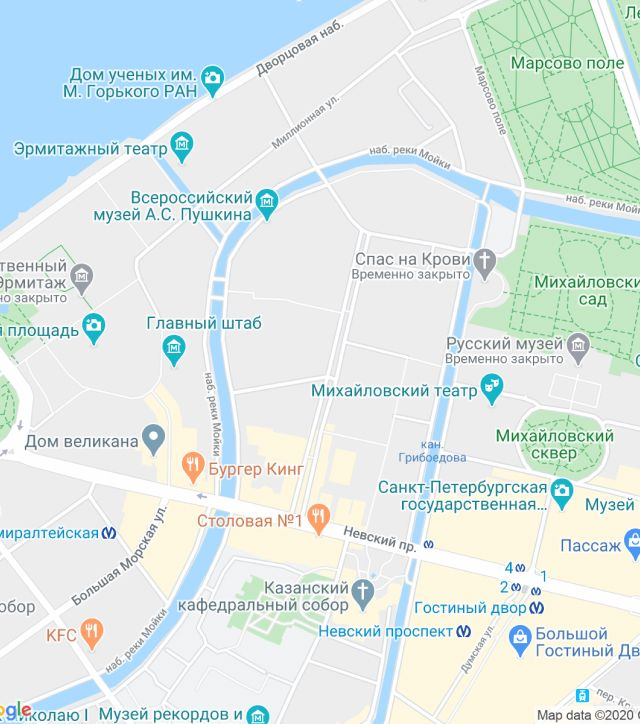
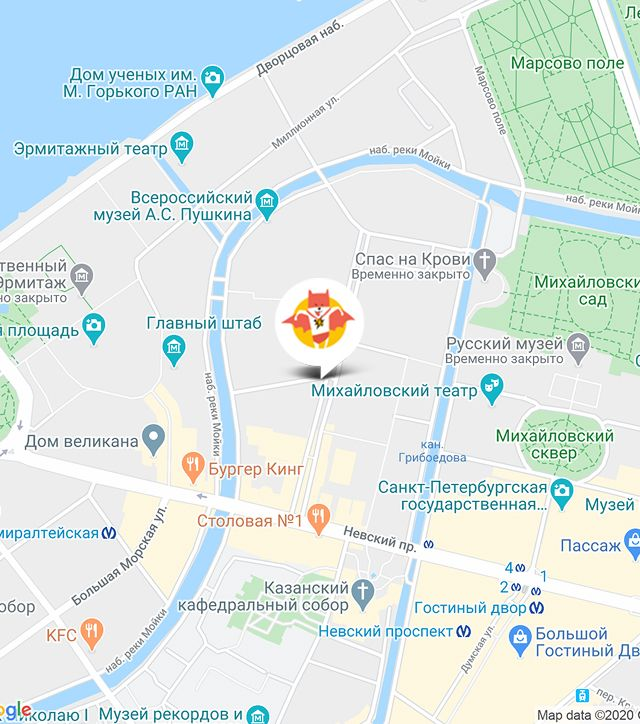
поправляет слайдер и карту в подвале

diff --git a/source/catalog.html b/source/catalog.html
@@ -75,7 +75,7 @@
                   <source media="(min-width: 768px)" srcset="images/catalog-products/chicken-500@tablet@1x.webp 1x, images/catalog-products/chicken-500@tablet@2x.webp 2x" type="image/webp" width="161" height="172">
 
                   <source srcset="images/catalog-products/chicken-500@1x.webp 1x, images/catalog-products/chicken-500@2x.webp 2x" type="image/webp">
-                  <img class="catalog-card__image" src="images/catalog-products/chicken-500@1x.png" srcset="images/catalog-products/chicken-500@1x.png 1x, images/catalog-products/chicken-500@2x.png 2x" alt="Cat Energy PRO 500 грамм со вкусом курицы" width="68" height="86">
+                  <img class="catalog-card__image" src="images/catalog-products/chicken-500@1x.png" srcset="images/catalog-products/chicken-500@1x.png 1x, images/catalog-products/chicken-500@2x.png 2x" alt="Cat Energy PRO 500 грамм со вкусом курицы" width="68" height="86" loading="lazy">
                 </picture>
               </a>
               <a class="catalog-card__link" href="#">
@@ -110,7 +110,7 @@
                   <source media="(min-width: 768px)" srcset="images/catalog-products/chicken-1000@tablet@1x.png 1x, images/catalog-products/chicken-1000@tablet@2x.png 2x" type="image/png" width="168" height="206">
 
                   <source srcset="images/catalog-products/chicken-1000@1x.webp 1x, images/catalog-products/chicken-1000@2x.webp 2x" type="image/webp">
-                  <img class="catalog-card__image" src="images/catalog-products/chicken-1000@1x.png" srcset="images/catalog-products/chicken-1000@1x.png 1x, images/catalog-products/chicken-1000@2x.png 2x" alt="Cat Energy PRO 1000 грамм со вкусом курицы" width="84" height="100">
+                  <img class="catalog-card__image" src="images/catalog-products/chicken-1000@1x.png" srcset="images/catalog-products/chicken-1000@1x.png 1x, images/catalog-products/chicken-1000@2x.png 2x" alt="Cat Energy PRO 1000 грамм со вкусом курицы" width="84" height="100" loading="lazy">
                 </picture>
               </a>
               <a class="catalog-card__link" href="#">
@@ -147,7 +147,7 @@
                   <source media="(min-width: 768px)" srcset="images/catalog-products/fish-500@tablet@1x.png 1x, images/catalog-products/fish-500@tablet@2x.png 2x" type="image/png" width="161" height="172">
 
                   <source srcset="images/catalog-products/fish-500@1x.webp 1x, images/catalog-products/fish-500@2x.webp 2x" type="image/webp">
-                  <img class="catalog-card__image" src="images/catalog-products/fish-500@1x.png" srcset="images/catalog-products/fish-500@1x.png 1x, images/catalog-products/fish-500@2x.png 2x" alt="Cat Energy PRO 500 грамм со вкусом рыбы" width="68" height="86">
+                  <img class="catalog-card__image" src="images/catalog-products/fish-500@1x.png" srcset="images/catalog-products/fish-500@1x.png 1x, images/catalog-products/fish-500@2x.png 2x" alt="Cat Energy PRO 500 грамм со вкусом рыбы" width="68" height="86" loading="lazy">
                 </picture>
               </a>
               <a class="catalog-card__link" href="#">
@@ -182,7 +182,7 @@
                   <source media="(min-width: 768px)" srcset="images/catalog-products/fish-1000@tablet@1x.png 1x, images/catalog-products/fish-1000@tablet@2x.png 2x" type="image/png" width="168" height="206">
 
                   <source srcset="images/catalog-products/fish-1000@1x.webp 1x, images/catalog-products/fish-1000@2x.webp 2x" type="image/webp">
-                  <img class="catalog-card__image" src="images/catalog-products/fish-1000@1x.png" srcset="images/catalog-products/fish-1000@1x.png 1x, images/catalog-products/fish-1000@2x.png 2x" alt="Cat Energy PRO 1000 грамм со вкусом рыбы" width="84" height="100">
+                  <img class="catalog-card__image" src="images/catalog-products/fish-1000@1x.png" srcset="images/catalog-products/fish-1000@1x.png 1x, images/catalog-products/fish-1000@2x.png 2x" alt="Cat Energy PRO 1000 грамм со вкусом рыбы" width="84" height="100" loading="lazy">
                 </picture>
               </a>
               <a class="catalog-card__link" href="#">
@@ -219,7 +219,7 @@
                   <source media="(min-width: 768px)" srcset="images/catalog-products/buckwheat-500@tablet@1x.png 1x, images/catalog-products/buckwheat-500@tablet@2x.png 2x" type="image/png" width="161" height="172">
 
                   <source srcset="images/catalog-products/buckwheat-500@1x.webp 1x, images/catalog-products/buckwheat-500@2x.webp 2x" type="image/webp">
-                  <img class="catalog-card__image" src="images/catalog-products/buckwheat-500@1x.png" srcset="images/catalog-products/buckwheat-500@1x.png 1x, images/catalog-products/buckwheat-500@2x.png 2x" alt="Cat Energy PRO 500 грамм со вкусом гречки" width="68" height="86">
+                  <img class="catalog-card__image" src="images/catalog-products/buckwheat-500@1x.png" srcset="images/catalog-products/buckwheat-500@1x.png 1x, images/catalog-products/buckwheat-500@2x.png 2x" alt="Cat Energy PRO 500 грамм со вкусом гречки" width="68" height="86" loading="lazy">
                 </picture>
               </a>
               <a class="catalog-card__link" href="#">
@@ -254,7 +254,7 @@
                   <source media="(min-width: 768px)" srcset="images/catalog-products/buckwheat-1000@tablet@1x.png 1x, images/catalog-products/buckwheat-1000@tablet@2x.png 2x" type="image/png" width="168" height="206">
 
                   <source srcset="images/catalog-products/buckwheat-1000@1x.webp 1x, images/catalog-products/buckwheat-1000@2x.webp 2x" type="image/webp">
-                  <img class="catalog-card__image" src="images/catalog-products/buckwheat-1000@1x.png" srcset="images/catalog-products/buckwheat-1000@1x.png 1x, images/catalog-products/buckwheat-1000@2x.png 2x" alt="Cat Energy PRO 1000 грамм со вкусом гречки" width="84" height="100">
+                  <img class="catalog-card__image" src="images/catalog-products/buckwheat-1000@1x.png" srcset="images/catalog-products/buckwheat-1000@1x.png 1x, images/catalog-products/buckwheat-1000@2x.png 2x" alt="Cat Energy PRO 1000 грамм со вкусом гречки" width="84" height="100" loading="lazy">
                 </picture>
               </a>
               <a class="catalog-card__link" href="#">
@@ -291,7 +291,7 @@
                   <source media="(min-width: 768px)" srcset="images/catalog-products/rice-500@tablet@1x.png 1x, images/catalog-products/rice-500@tablet@2x.png 2x" type="image/png" width="161" height="172">
 
                   <source srcset="images/catalog-products/rice-500@1x.webp 1x, images/catalog-products/rice-500@2x.webp 2x" type="image/webp">
-                  <img class="catalog-card__link" src="images/catalog-products/rice-500@1x.png" srcset="images/catalog-products/rice-500@1x.png 1x, images/catalog-products/rice-500@2x.png 2x" alt="Cat Energy PRO 500 грамм со вкусом риса" width="68" height="86">
+                  <img class="catalog-card__link" src="images/catalog-products/rice-500@1x.png" srcset="images/catalog-products/rice-500@1x.png 1x, images/catalog-products/rice-500@2x.png 2x" alt="Cat Energy PRO 500 грамм со вкусом риса" width="68" height="86" loading="lazy">
                 </picture>
               </a>
               <a class="catalog-card__link" href="#">
@@ -423,18 +423,27 @@
             </address>
           </div>
         </div>
-        <!--  -->
+
         <div class="dealers__map-wrap">
           <div class="dealers__map no-js" id="map"></div>
+          <picture class="dealers__map">
+            <source media="(min-width: 1220px)" srcset="./images/map/footer-map@desktop@1x.webp 1x, ./images/map/footer-map@desktop@2x.webp 2x" type="image/webp" width="161" height="172">
+            <source media="(min-width: 1220px)" srcset="./images/map/footer-map@desktop@1x.jpg 1x, ./images/map/footer-map@desktop@2x.jpg 2x" type="image/jpg" width="161" height="172">
+
+            <source media="(min-width: 768px)" srcset="./images/map/footer-map@tablet@1x.webp 1x, ./images/map/footer-map@tablet@2x.webp 2x" type="image/webp" width="768" height="400">
+            <source media="(min-width: 768px)" srcset="./images/map/footer-map@tablet@1x.jpg 1x, ./images/map/footer-map@tablet@2x.jpg 2x" type="image/jpg" width="768" height="400">
+
+            <source srcset="./images/map/footer-map@1x.webp 1x, ./images/map/footer-map@2x.webp 2x" type="image/webp">
+            <img src="./images/map/footer-map@1x.jpg" srcset="./images/map/footer-map@1x.jpg 1x, ./images/map/footer-map@2x.jpg 2x" alt="ул. Большая Конюшенная, д. 19/8, Санкт-Петербург" width="320" height="362" loading="lazy">
+          </picture>
         </div>
-        <!--  -->
       </section>
       <!-- dealers -->
 
       <div class="footer__container container">
         <div class="footer__block">
-          <a class="footer__logo-center logo-center" href="index.html">
-            <img class="logo-center__images" src="./images/logo-text.svg" alt="Кет енерджи" width="128" height="24">
+          <a class="footer__logo-center logo-center" href="index.html" aria-current="page">
+            <img class="logo-center__images" src="./images/logo-text.svg" alt="Кет енерджи" width="128" height="24" loading="lazy">
           </a>
         </div>
 
@@ -456,13 +465,9 @@
           </li>
         </ul>
 
-        <p class="footer__block footer__partners partners">
+        <a class="footer__block footer__partners partners" href="https://htmlacademy.ru/intensive/adaptive">
           HTML Academy
-          <a class="partners__logo-center logo-center" href="https://htmlacademy.ru/intensive/adaptive">
-            <img class="logo-center__images" src="./images/logo-htmlacademy.svg" alt="htmlacademy" width="27"
-              height="34">
-          </a>
-        </p>
+        </a>
       </div>
     </footer>
     <!-- footer -->

diff --git a/source/index.html b/source/index.html
@@ -5,7 +5,7 @@
     <title>Красивый тайтл</title>
     <meta name="viewport" content="width=device-width,initial-scale=1">
     <link rel="stylesheet" href="styles/styles.css">
-    <!-- <script src="scripts/index.js" defer></script> -->
+    <script src="scripts/index.js" defer></script>
   </head>
   <body>
 
@@ -158,14 +158,14 @@
               <source media="(min-width: 768px)" srcset="images/example-slider/before@tablet@1x.png 1x, images/example-slider/before@tablet@2x.png 2x" type="image/png" width="560" height="512">
 
               <source srcset="images/example-slider/before@1x.webp 1x, images/example-slider/before@2x.webp 2x" type="image/webp">
-              <img class="before-after__images before-after__images--before" src="images/example-slider/before@1x.png" srcset="images/example-slider/before@1x.png 1x, images/example-slider/before@2x.png 2x" alt="Кот с серо-белой шерстью. У него глаза разного цвета и очень крупное тело" width="280" height="256">
+              <img class="before-after__images before-after__images--before" src="images/example-slider/before@1x.png" srcset="images/example-slider/before@1x.png 1x, images/example-slider/before@2x.png 2x" alt="Кот с серо-белой шерстью. У него глаза разного цвета и очень крупное тело" width="280" height="256" loading="lazy">
             </picture>
             <picture>
               <source media="(min-width: 768px)" srcset="images/example-slider/after@tablet@1x.webp 1x, images/example-slider/after@tablet@2x.webp 2x" type="image/webp" width="560" height="512">
               <source media="(min-width: 768px)" srcset="images/example-slider/after@tablet@1x.png 1x, images/example-slider/after@tablet@2x.png 2x" type="image/png" width="560" height="512">
 
               <source srcset="images/example-slider/after@1x.webp 1x, images/example-slider/after@2x.webp 2x" type="image/webp">
-              <img class="before-after__images before-after__images--after" src="images/example-slider/after@1x.png" srcset="images/example-slider/after@1x.png 1x, images/example-slider/after@2x.png 2x" alt="Кот с серо-белой шерстью. У него глаза разного цвета и очень худое тело" width="280" height="256">
+              <img class="before-after__images before-after__images--after" src="images/example-slider/after@1x.png" srcset="images/example-slider/after@1x.png 1x, images/example-slider/after@2x.png 2x" alt="Кот с серо-белой шерстью. У него глаза разного цвета и очень худое тело" width="280" height="256" loading="lazy">
             </picture>
 
             <label class="visually-hidden" for="before-after-range">Показать картинку до или после</label>
@@ -194,18 +194,28 @@
             </address>
           </div>
         </div>
-          <!--  -->
-          <div class="dealers__map-wrap">
-            <div class="dealers__map no-js" id="map"></div>
-          </div>
-          <!--  -->
+
+        <div class="dealers__map-wrap">
+          <div class="dealers__map no-js" id="map"></div>
+          <picture class="dealers__map">
+            <source media="(min-width: 1220px)" srcset="./images/map/footer-map@desktop@1x.webp 1x, ./images/map/footer-map@desktop@2x.webp 2x" type="image/webp" width="161" height="172">
+            <source media="(min-width: 1220px)" srcset="./images/map/footer-map@desktop@1x.jpg 1x, ./images/map/footer-map@desktop@2x.jpg 2x" type="image/jpg" width="161" height="172">
+
+            <source media="(min-width: 500px)" srcset="./images/map/footer-map@tablet@1x.webp 1x, ./images/map/footer-map@tablet@2x.webp 2x" type="image/webp" width="768" height="400">
+            <source media="(min-width: 500px)" srcset="./images/map/footer-map@tablet@1x.jpg 1x, ./images/map/footer-map@tablet@2x.jpg 2x" type="image/jpg" width="768" height="400">
+
+            <source srcset="./images/map/footer-map@1x.webp 1x, ./images/map/footer-map@2x.webp 2x" type="image/webp">
+            <img src="./images/map/footer-map@1x.jpg" srcset="./images/map/footer-map@1x.jpg 1x, ./images/map/footer-map@2x.jpg 2x" alt="ул. Большая Конюшенная, д. 19/8, Санкт-Петербург" width="320" height="362" loading="lazy">
+          </picture>
+        </div>
+
       </section>
       <!-- dealers -->
 
       <div class="footer__container container">
         <div class="footer__block">
           <a class="footer__logo-center logo-center" href="index.html" aria-current="page">
-            <img class="logo-center__images" src="./images/logo-text.svg" alt="Кет енерджи" width="128" height="24">
+            <img class="logo-center__images" src="./images/logo-text.svg" alt="Кет енерджи" width="128" height="24" loading="lazy">
           </a>
         </div>
 

diff --git a/source/styles/blocks/dealers.scss b/source/styles/blocks/dealers.scss
@@ -7,17 +7,20 @@
   &--index {
     background-color: #ffffff;
   }
+
+  @media (min-width: $min-md) {
+    position: relative;
+    height: 400px;
+  }
 }
 
 .dealers__container {
   @media (min-width: $min-xl) {
-    position: absolute;
-    inset: 0;
-    top: 0;
+    position: relative;
     z-index: 1;
+    height: 100%;
     display: flex;
     align-items: center;
-    pointer-events: none;
   }
 }
 
@@ -96,8 +99,13 @@
   position: relative;
   height: 362px;
 
+  @media (min-width: $min-xl) {
+    position: absolute;
+    inset: 0;
+  }
+
   @media (min-width: $min-md) {
-    min-height: 400px;
+    height: 400px;
   }
 }
 
@@ -105,18 +113,19 @@
   position: absolute;
   inset: 0;
 
-  &.no-js {
-    background-image: url("../../images/map/footer-map@1x.jpg");
-    background-repeat: no-repeat;
-    background-size: cover;
-    background-position: center;
+}
 
-    @media (min-width: $min-md) {
-      background-image: url("../../images/map/footer-map@tablet@1x.jpg");
-    }
+picture.dealers__map {
+  display: none;
 
-    @media (min-width: $min-xl) {
-      background-image: url("../../images/map/footer-map@desktop@1x.jpg");
+  .no-js + & {
+    display: block;
+
+    img {
+      width: 100%;
+      height: 100%;
+      object-fit: cover;
+      object-position: center;
     }
   }
 }
